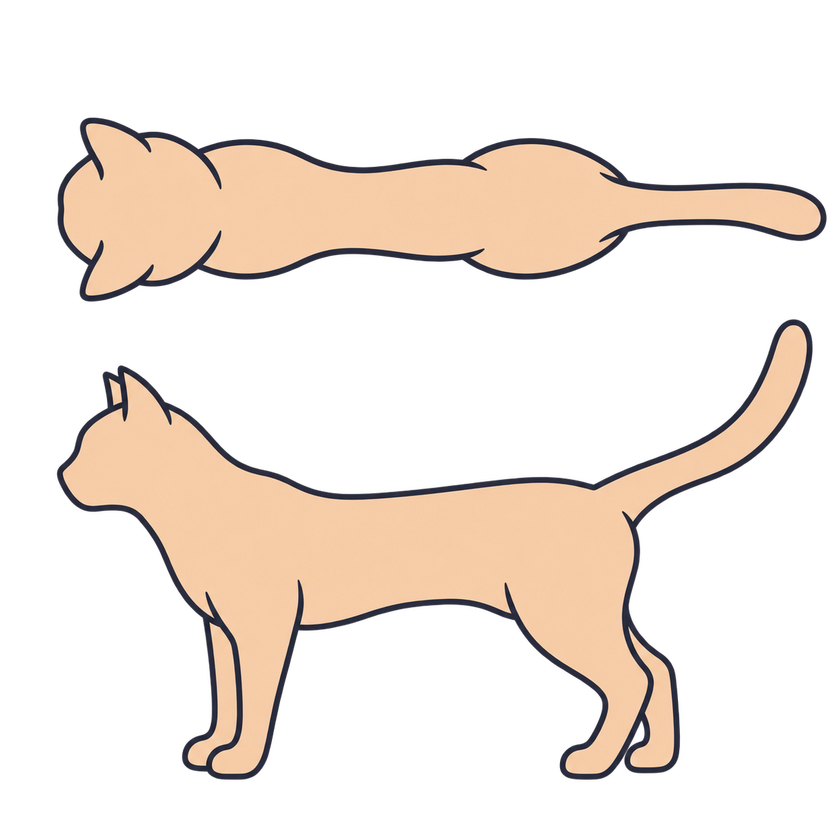
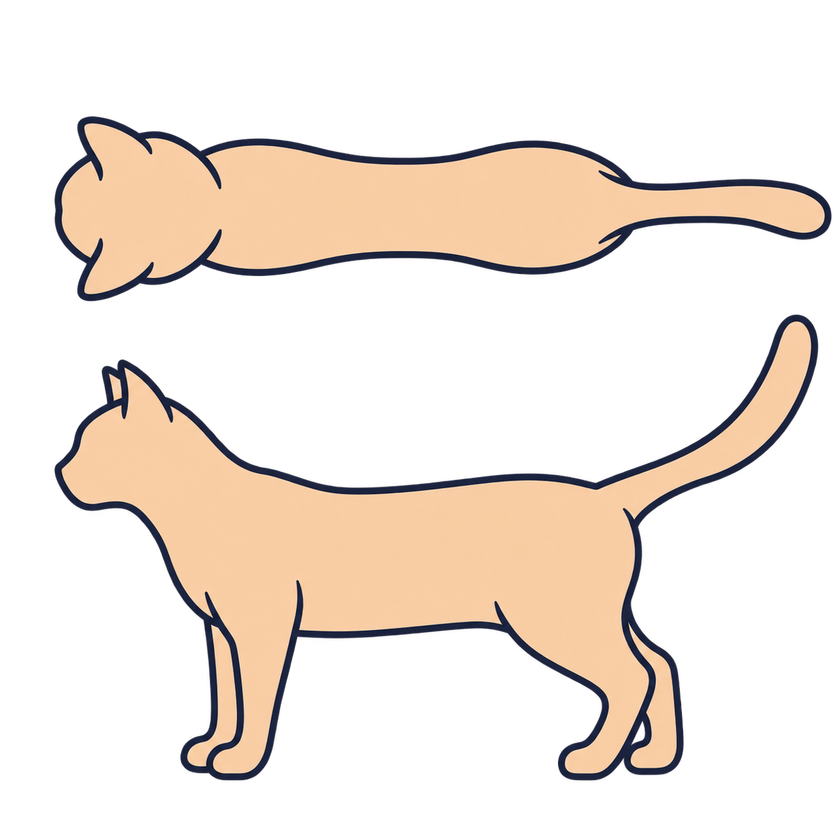
BCS の細さと腹部のラインを参考画像に合わせて調整する

diff --git a/docs/illustrations/bcs.md b/docs/illustrations/bcs.md
@@ -8,6 +8,8 @@
 上から見るガイドは、点線の楕円が腰のくびれを囲むように追加で修正した。
 BCS 3 の上面図は、[参考画像の BCS 3](https://storage.googleapis.com/studio-cms-assets/projects/YPqr2D8mq5/s-1350x896_v-fms_webp_66989497-388d-4bf6-b3f2-d93252d0c611.webp) に合わせ、胸からお尻までなだらかにつながる浅いくびれに調整した。
 同じ体型を使う肋骨・上面のガイドも揃え、BCS 4 の上面図は BCS 3 より胴体がふっくら見えるよう調整した。
+さらに参考画像の各段階と比較し、BCS 1・2 の極端な細さを抑え、全段階の胸から腹部へ続く輪郭を調整した。
+横向きの腹部は全体を深くえぐらず、後ろ脚手前のくぼみと皮膚のたるみで段階差を表現する。BCS 4・5 の下腹部は胴体に連続させ、独立した丸い袋の形にしない。横から見るガイドも修正後の BCS 3 に揃えた。
 生成後は透過を維持し、縦横比を保ったまま表のサイズに整えた。
 実際に使用したプロンプトと追加の修正指示は [bcs-prompts.json](bcs-prompts.json) に記録している。
 
@@ -58,7 +60,9 @@ BCS 3 の上面図は、[参考画像の BCS 3](https://storage.googleapis.com/s
 - どちらも頭を左、しっぽを右に向ける。
 - 上から見た図は、胸・腰のくびれ・お尻の幅の違いが分かるように、体の輪郭をはっきり描く。
 - BCS 3 の上面図は、胸からお尻までなだらかにつなぎ、腰のくびれを浅くする。胸・腰・お尻が別々に膨らむ輪郭や、痩せた砂時計型にしない。肋骨・上面のガイドにも同じ体型を使う。
+- BCS 1・2 の上面図も胴体中央を極端に細くしない。参考画像の各段階を見比べ、BCS 1 は控えめな骨の表現と腰のくびれ、BCS 2 は BCS 3 より少し細い胴体で違いを表現する。
 - 横から見た図は、4 本足で立った姿勢。胸からお腹、後ろ足の付け根にかけてのお腹のライン（吊り上がり）が分かるように描く。
+- 横向きの胸から腹部までは厚みを保ち、後ろ脚手前のくぼみを描く。BCS 3 はお腹全体が深いアーチにならないようにする。BCS 4・5 は胸と腹部の両方に厚みを持たせ、下腹部のたるみを独立した丸い袋にしない。
 - 5 段階の画像を横に並べたとき、体型以外（頭の大きさ・足の長さ・位置）が一致するようにする。
 
 この構図で、BCS {1〜5 のいずれか}（{痩せ／やや痩せ／理想体重／やや肥満／肥満}）の猫を、上記の体型の基準どおりに描いてください。
